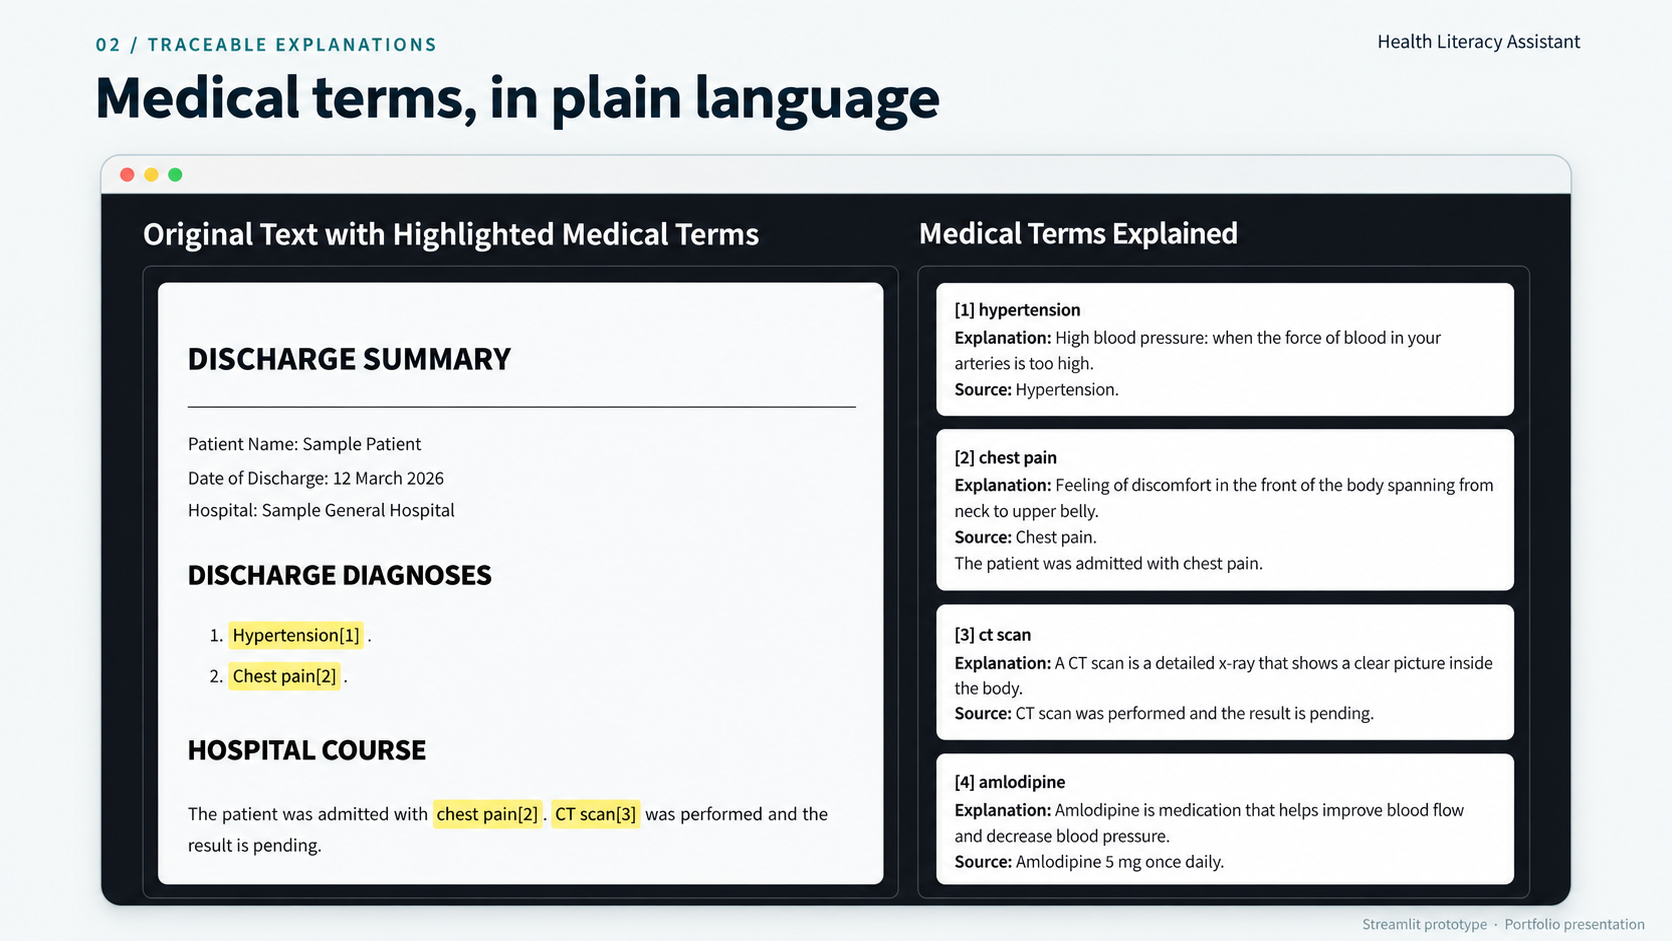
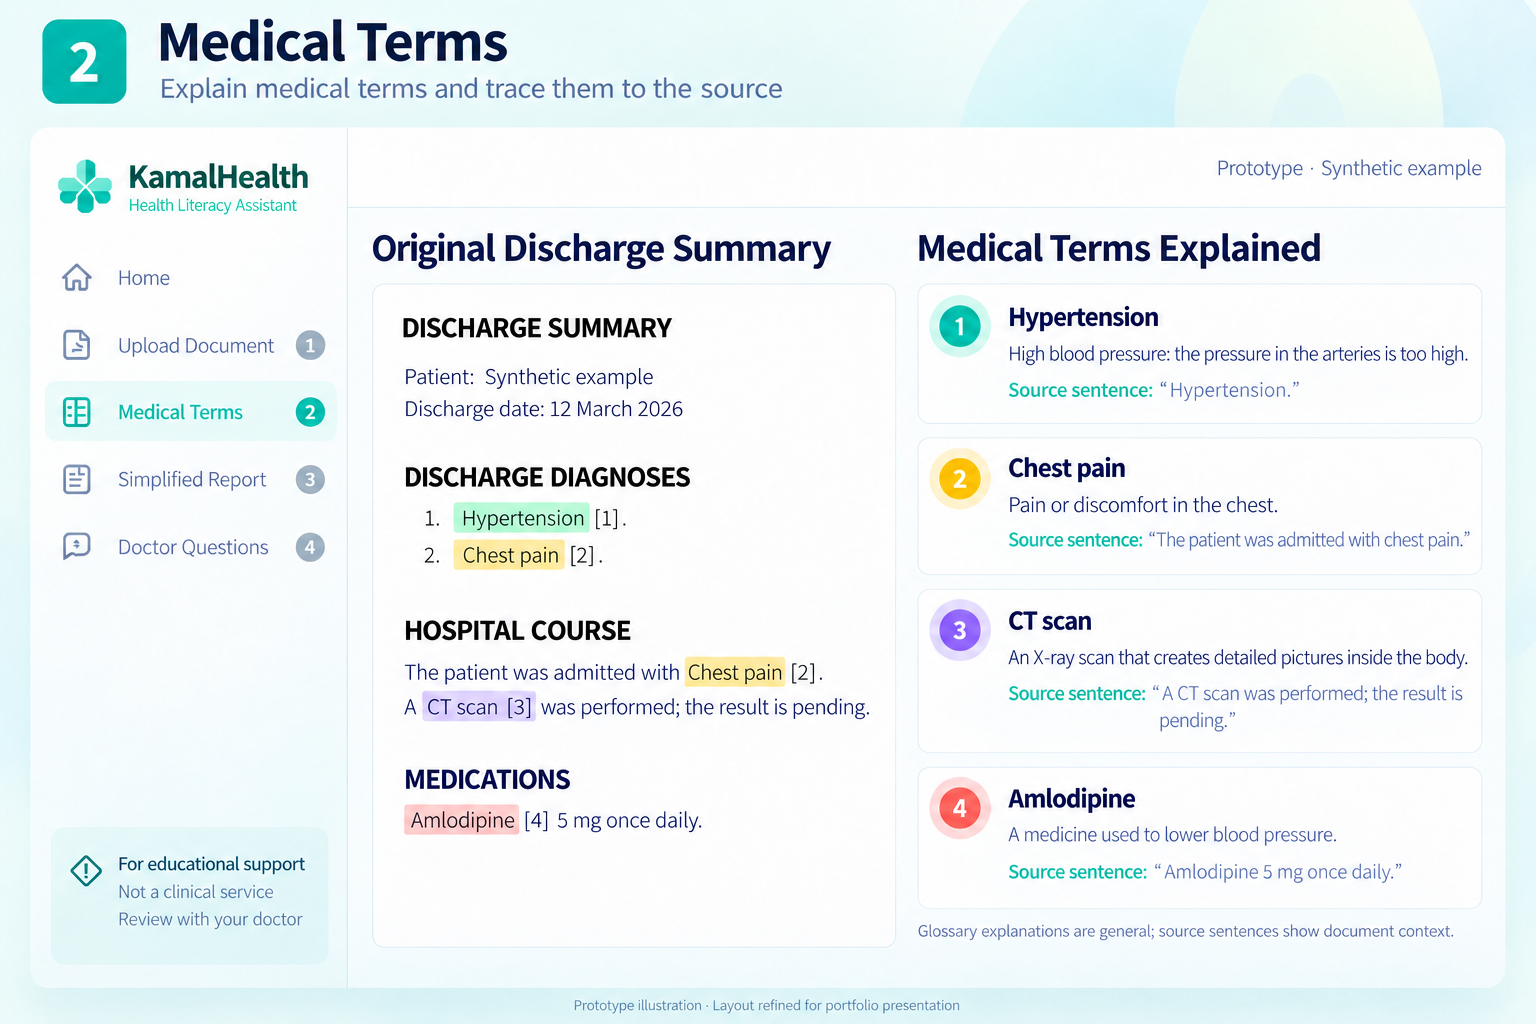
Unify prototype screens and align portfolio narrative

diff --git a/README.md b/README.md
@@ -50,29 +50,31 @@ flowchart LR
 
 ## 原型界面
 
-以下是现有 Streamlit 子模块的界面展示，后续将结合新的项目网站素材更新。图片经过展示排版优化，功能与结果沿用原型。
+以下四图基于新提供的原型素材统一排版，用于说明用户流程与信息呈现；属于展示示意图，并非完整应用的运行截图。公开仓库保留代表性代码，不提供可部署的完整网站。
+
+第二、第四图沿用同一高血压示例，第三图使用另一呼吸系统病例；各页用于展示对应环节，不代表同一次连续处理。图中示例文本不作为项目评测结果。
 
 ### 文档输入
 
-支持文本输入与图片上传；可选开启 Llama 3.1 改写，同时展示产品边界及输入隐私提示。
+展示文本与图片输入入口、OCR 核对提示及可选 Llama 3.1 改写。隐私提示说明常见标识遮蔽的局限。
 
 ![文档输入与产品边界](assets/screenshots/website-homepage.png)
 
 ### 医学术语解释与原文溯源
 
-将医学术语与通俗解释、原文位置和来源句对应，帮助用户核对解释依据。
+将医学术语、通用解释与原文来源句对应。来源句用于定位文档中的上下文，术语解释来自结构化知识库。
 
 ![医学术语解释与原文溯源](assets/screenshots/medical-terms-explained.png)
 
-### 通俗化文本与一致性检查
+### 通俗化文本与生成复核
 
-保留规则 Baseline 供对照，并展示内部一致性风险提示。
+并列呈现规则 Baseline 与可选 Llama 3.1 改写，提示回到原文复核；自动风险检查不构成忠实度保证。
 
-![规则通俗化与一致性检查](assets/screenshots/rule-based-patient-friendly-version.png)
+![规则 Baseline 与可选 Llama 3.1 改写对照](assets/screenshots/rule-based-patient-friendly-version.png)
 
 ### 就诊准备
 
-围绕原文内容整理复诊问题，并持续展示非诊疗工具的边界。
+围绕诊断、原文列示用药、待出检查结果及复诊事项整理提问，交由患者与医生确认，不代替诊疗决定。
 
 ![就诊准备问题](assets/screenshots/questions-to-ask-doctor.png)
 
